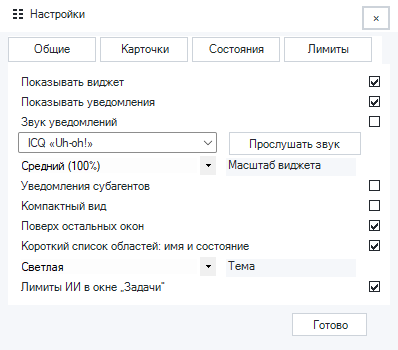
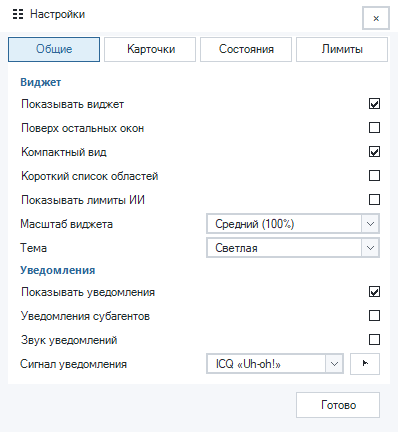
Align settings controls and group General options

diff --git a/native/DshNotifyGui.cs b/native/DshNotifyGui.cs
@@ -209,13 +209,17 @@ public sealed class SettingsForm : Form
     private static extern IntPtr SendMessage(IntPtr window, int message, IntPtr wParam, IntPtr lParam);
     private const int RowInset = 10;
     private const int RowHeight = 20;
+    private const int GeneralRowHeight = 24;
+    private const int GeneralValueLeft = 198;
+    private const int SettingsContentWidth = 382;
     private readonly Settings value;
     private readonly Action<Settings> changed;
     private readonly Dictionary<string, CheckBox> checks = new Dictionary<string, CheckBox>();
     private readonly Dictionary<Control, int> pages = new Dictionary<Control, int>();
-    private readonly ComboBox soundPreset = new ComboBox();
-    private readonly ComboBox widgetScale = new ComboBox();
-    private readonly ComboBox themeMode = new ComboBox();
+    private readonly ComboBox soundPreset = new SettingsChoice();
+    private readonly ComboBox widgetScale = new SettingsChoice();
+    private readonly ComboBox themeMode = new SettingsChoice();
+    private readonly List<Button> tabButtons = new List<Button>();
     private readonly Action<string> quotaKeyChanged;
     private readonly bool allowQuotaVault;
     private readonly Rectangle? layoutWorkingArea;
@@ -254,78 +258,42 @@ public sealed class SettingsForm : Form
         titleBar.MouseDown += DragCaption;
         Label title = new Label(); title.Text = "☷  Настройки"; title.ForeColor = Graphite.Primary; title.AutoSize = true; title.Location = new Point(10, 8); title.MouseDown += DragCaption;
         titleBar.Controls.Add(title); Controls.Add(titleBar);
-        Panel tabs = new Panel(); tabs.BackColor = Graphite.Base; tabs.SetBounds(8, 36, 374, 28); tabs.Anchor = AnchorStyles.Top | AnchorStyles.Left | AnchorStyles.Right;
+        Panel tabs = new Panel(); tabs.BackColor = Graphite.Base; tabs.SetBounds(8, 36, SettingsContentWidth, 28); tabs.Anchor = AnchorStyles.Top | AnchorStyles.Left | AnchorStyles.Right;
         string[] tabNames = new string[] { "Общие", "Карточки", "Состояния", "Лимиты" };
         for (int tabIndex = 0; tabIndex < tabNames.Length; tabIndex++)
         {
             Button tab = new Button(); int selected = tabIndex;
-            tab.Text = tabNames[tabIndex]; tab.AccessibleName = tabNames[tabIndex]; tab.SetBounds(tabIndex * 92, 1, 88, 25);
-            tab.FlatStyle = FlatStyle.Flat; tab.FlatAppearance.BorderColor = Graphite.Border; tab.BackColor = tabIndex == 0 ? Graphite.Card : Graphite.Base; tab.ForeColor = Graphite.Primary;
+            tab.Text = tabNames[tabIndex]; tab.AccessibleName = tabNames[tabIndex]; tab.SetBounds(tabIndex * 96, 1, 92, 25);
+            tab.FlatStyle = FlatStyle.Flat;
             tab.Click += delegate { ShowPage(selected); };
             tabs.Controls.Add(tab);
+            tabButtons.Add(tab);
         }
         Controls.Add(tabs);
         int top = 72;
         page = 0;
-        Add("show-widget", "Показывать виджет", value.ShowWidget, ref top);
-        Add("show-notices", "Показывать уведомления", value.ShowNotifications, ref top);
-        Add("notice-sound", "Звук уведомлений", value.NotificationSound, ref top);
-        soundPreset.Name = "notification-sound-preset";
-        soundPreset.AccessibleName = "Сигнал уведомления";
-        soundPreset.DropDownStyle = ComboBoxStyle.DropDownList;
-        soundPreset.FlatStyle = FlatStyle.Flat;
-        soundPreset.BackColor = Graphite.Card;
-        soundPreset.ForeColor = Graphite.Primary;
-        soundPreset.DrawMode = DrawMode.OwnerDrawFixed;
-        soundPreset.DrawItem += PaintSoundPreset;
+        AddCaption("Виджет", ref top);
+        Add("show-widget", "Показывать виджет", value.ShowWidget, ref top, GeneralRowHeight);
+        Add("widget-topmost", "Поверх остальных окон", value.WidgetTopMost, ref top, GeneralRowHeight);
+        Add("compact-widget", "Компактный вид", value.CompactWidget, ref top, GeneralRowHeight);
+        Add("compact-workspace-list", "Короткий список областей", value.CompactWorkspaceList, ref top, GeneralRowHeight);
+        Add("show-limits", "Показывать лимиты ИИ", value.ShowLimits, ref top, GeneralRowHeight);
+        widgetScale.Items.AddRange(new object[] { "Маленький (85%)", "Средний (100%)", "Большой (125%)" });
+        widgetScale.SelectedIndex = value.WidgetScale == "small" ? 0 : (value.WidgetScale == "large" ? 2 : 1);
+        AddGeneralChoice(widgetScale, "widget-scale", "Масштаб виджета", ref top);
+        themeMode.Items.AddRange(new object[] { "Как в Windows", "Светлая", "Тёмная" });
+        themeMode.SelectedIndex = ThemeIndex(value.Theme);
+        AddGeneralChoice(themeMode, "theme-mode", "Тема", ref top);
+        AddCaption("Уведомления", ref top);
+        Add("show-notices", "Показывать уведомления", value.ShowNotifications, ref top, GeneralRowHeight);
+        Add("subagent-notices", "Уведомления субагентов", value.SubagentNotices, ref top, GeneralRowHeight);
+        Add("notice-sound", "Звук уведомлений", value.NotificationSound, ref top, GeneralRowHeight);
         soundPreset.DisplayMember = "Value";
         soundPreset.Items.AddRange(NotificationSounds.Presets.Cast<object>().ToArray());
         soundPreset.SelectedIndex = NotificationSounds.IndexOf(value.NotificationSoundPreset);
-        soundPreset.SetBounds(RowInset, top, 199, 23);
-        soundPreset.SelectedIndexChanged += delegate { Save(); };
-        Controls.Add(soundPreset);
-        pages.Add(soundPreset, page);
-        Button preview = new Button { Text = "Прослушать звук", FlatStyle = FlatStyle.Flat, Enabled = previewSound != null,
-            ForeColor = Graphite.Primary, BackColor = Graphite.Card };
-        preview.FlatAppearance.BorderColor = Graphite.Border;
-        preview.SetBounds(221, top, 132, 23);
+        Button preview = new Button { Text = "▶", AccessibleName = "Прослушать звук", FlatStyle = FlatStyle.Flat, Enabled = previewSound != null };
         preview.Click += delegate { if (previewSound != null) previewSound(SelectedSound()); };
-        Controls.Add(preview);
-        pages.Add(preview, page);
-        top += 26;
-        widgetScale.Name = "widget-scale";
-        widgetScale.AccessibleName = "Масштаб виджета";
-        widgetScale.DropDownStyle = ComboBoxStyle.DropDownList;
-        widgetScale.FlatStyle = FlatStyle.Flat;
-        widgetScale.BackColor = Graphite.Card;
-        widgetScale.ForeColor = Graphite.Primary;
-        widgetScale.Items.AddRange(new object[] { "Маленький (85%)", "Средний (100%)", "Большой (125%)" });
-        widgetScale.SelectedIndex = value.WidgetScale == "small" ? 0 : (value.WidgetScale == "large" ? 2 : 1);
-        widgetScale.SetBounds(RowInset, top, 199, 23);
-        widgetScale.SelectedIndexChanged += delegate { Save(); };
-        Label scaleLabel = new Label { Text = "Масштаб виджета", ForeColor = Graphite.Secondary, BackColor = Graphite.Base };
-        scaleLabel.SetBounds(218, top + 3, 130, 18);
-        Controls.Add(scaleLabel); pages.Add(scaleLabel, page);
-        Controls.Add(widgetScale); pages.Add(widgetScale, page); top += 26;
-        Add("subagent-notices", "Уведомления субагентов", value.SubagentNotices, ref top);
-        Add("compact-widget", "Компактный вид", value.CompactWidget, ref top);
-        Add("widget-topmost", "Поверх остальных окон", value.WidgetTopMost, ref top);
-        Add("compact-workspace-list", "Короткий список областей: имя и состояние", value.CompactWorkspaceList, ref top);
-        themeMode.Name = "theme-mode";
-        themeMode.AccessibleName = "Тема";
-        themeMode.DropDownStyle = ComboBoxStyle.DropDownList;
-        themeMode.FlatStyle = FlatStyle.Flat;
-        themeMode.BackColor = Graphite.Card;
-        themeMode.ForeColor = Graphite.Primary;
-        themeMode.Items.AddRange(new object[] { "Как в Windows", "Светлая", "Тёмная" });
-        themeMode.SelectedIndex = ThemeIndex(value.Theme);
-        themeMode.SetBounds(RowInset, top, 199, 23);
-        themeMode.SelectedIndexChanged += delegate { Save(); };
-        Label themeLabel = new Label { Text = "Тема", ForeColor = Graphite.Secondary, BackColor = Graphite.Base };
-        themeLabel.SetBounds(218, top + 3, 130, 18);
-        Controls.Add(themeLabel); pages.Add(themeLabel, page);
-        Controls.Add(themeMode); pages.Add(themeMode, page); top += 26;
-        Add("show-limits", "Лимиты ИИ в окне „Задачи“", value.ShowLimits, ref top);
+        AddGeneralChoice(soundPreset, "notification-sound-preset", "Сигнал уведомления", ref top, preview);
         page = 1; top = 72;
         Add("field-workspace", "Рабочая область", value.FieldWorkspace, ref top);
         Add("field-task", "Задача", value.FieldTask, ref top);
@@ -359,8 +327,7 @@ public sealed class SettingsForm : Form
         }
         SaveButton = new Button();
         SaveButton.Text = "Готово";
-        SaveButton.Top = 290;
-        SaveButton.Left = 292;
+        SaveButton.SetBounds(296, 290, 84, 26);
         SaveButton.Anchor = AnchorStyles.Bottom | AnchorStyles.Right;
         SaveButton.FlatStyle = FlatStyle.Flat;
         SaveButton.BackColor = Graphite.Card;
@@ -384,7 +351,7 @@ public sealed class SettingsForm : Form
         MinimumSize = new Size(360, 280);
         AutoScroll = false;
         contentPanel = new Panel();
-        contentPanel.SetBounds(8, 64, 382, 218);
+        contentPanel.SetBounds(8, 64, SettingsContentWidth, 218);
         contentPanel.Anchor = AnchorStyles.Top | AnchorStyles.Bottom | AnchorStyles.Left | AnchorStyles.Right;
         contentPanel.AutoScroll = false;
         contentPanel.BackColor = Graphite.Card;
@@ -401,6 +368,7 @@ public sealed class SettingsForm : Form
         ShowPage(0);
         ResumeLayout(true);
         ApplyOwnPalette(this);
+        StyleTabs();
         CaptureScaleBaseline(this);
         ApplyWindowScale();
     }
@@ -472,6 +440,7 @@ public sealed class SettingsForm : Form
         checks["compact-widget"].Checked = value.CompactWidget;
         syncing = false;
         ApplyOwnPalette(this);
+        StyleTabs();
         ApplyWindowScale();
     }
 
@@ -480,7 +449,11 @@ public sealed class SettingsForm : Form
         Panel panel = control as Panel;
         if (panel != null) panel.BackColor = Graphite.Card;
         Label label = control as Label;
-        if (label != null) label.ForeColor = Graphite.Primary;
+        if (label != null)
+        {
+            label.BackColor = Graphite.Card;
+            label.ForeColor = label.Name == "settings-section" ? Graphite.Accent("running") : Graphite.Primary;
+        }
         Button button = control as Button;
         if (button != null) { button.BackColor = Graphite.Card; button.ForeColor = Graphite.Primary; button.FlatAppearance.BorderColor = Graphite.Border; }
         CheckBox check = control as CheckBox;
@@ -497,12 +470,36 @@ public sealed class SettingsForm : Form
         SendMessage(Handle, 0x00A1, new IntPtr(2), IntPtr.Zero);
     }
 
-    private void Add(string key, string text, bool selected, ref int top)
+    private void AddGeneralChoice(ComboBox combo, string name, string text, ref int top, Button action = null)
+    {
+        int right = SettingsContentWidth - RowInset;
+        int width = right - GeneralValueLeft;
+        Label label = new Label { Text = text, TextAlign = ContentAlignment.MiddleLeft, UseMnemonic = false };
+        label.SetBounds(RowInset, top, GeneralValueLeft - RowInset * 2, GeneralRowHeight);
+        combo.Name = name;
+        combo.AccessibleName = text;
+        combo.DropDownStyle = ComboBoxStyle.DropDownList;
+        combo.FlatStyle = FlatStyle.Flat;
+        combo.DrawMode = DrawMode.OwnerDrawFixed;
+        combo.DrawItem += PaintChoice;
+        combo.SetBounds(GeneralValueLeft, top + 1, action == null ? width : width - 36, GeneralRowHeight - 2);
+        combo.SelectedIndexChanged += delegate { Save(); };
+        Controls.Add(label); pages.Add(label, page);
+        Controls.Add(combo); pages.Add(combo, page);
+        if (action != null)
+        {
+            action.SetBounds(right - 30, top + 1, 30, GeneralRowHeight - 2);
+            Controls.Add(action); pages.Add(action, page);
+        }
+        top += GeneralRowHeight;
+    }
+
+    private void Add(string key, string text, bool selected, ref int top, int rowHeight = RowHeight)
     {
         CheckBox check = new CheckBox();
         check.Text = text;
         check.Checked = selected;
-        check.SetBounds(RowInset, top, 1, RowHeight);
+        check.SetBounds(RowInset, top, 1, rowHeight);
         check.TextAlign = ContentAlignment.MiddleLeft;
         check.CheckAlign = ContentAlignment.MiddleRight;
         check.FlatStyle = FlatStyle.Flat;
@@ -515,16 +512,18 @@ public sealed class SettingsForm : Form
         checks.Add(key, check);
         pages[check] = page;
         if (contentPanel == null) Controls.Add(check); else contentPanel.Controls.Add(check);
-        top += RowHeight;
+        top += rowHeight;
     }
 
     private void AddCaption(string text, ref int top)
     {
         Label caption = new Label();
+        caption.Name = "settings-section";
         caption.Text = text;
-        caption.ForeColor = Graphite.Running;
+        caption.TextAlign = ContentAlignment.MiddleLeft;
+        caption.ForeColor = Graphite.Accent("running");
         caption.Font = new Font("Segoe UI", 8.25F, FontStyle.Bold);
-        caption.Left = 10;
+        caption.Left = RowInset;
         caption.Top = top;
         caption.Width = 280;
         caption.Height = 20;
@@ -664,7 +663,8 @@ public sealed class SettingsForm : Form
     private void FitRows()
     {
         int inset = (int)Math.Round(RowInset * WindowScaleFactor());
-        int width = Math.Max(1, contentPanel.ClientSize.Width - inset * 2);
+        int right = (int)Math.Round((SettingsContentWidth - RowInset) * WindowScaleFactor());
+        int width = Math.Max(1, Math.Min(right, contentPanel.ClientSize.Width - inset) - inset);
         foreach (CheckBox row in checks.Values) row.Width = width;
     }
 
@@ -672,8 +672,21 @@ public sealed class SettingsForm : Form
     {
         if (page != selected) limitProviderPage = 0;
         page = selected;
+        StyleTabs();
         foreach (KeyValuePair<Control, int> item in pages) item.Key.Visible = item.Value == selected;
         FitToVisibleContent();
+    }
+
+    private void StyleTabs()
+    {
+        for (int index = 0; index < tabButtons.Count; index++)
+        {
+            bool selected = index == page;
+            Button tab = tabButtons[index];
+            tab.BackColor = selected ? Graphite.ChipFill("running") : Graphite.Card;
+            tab.ForeColor = selected ? Graphite.Accent("running") : Graphite.Primary;
+            tab.FlatAppearance.BorderColor = selected ? Graphite.Accent("running") : Graphite.Border;
+        }
     }
 
     private void Save()
@@ -739,8 +752,10 @@ public sealed class SettingsForm : Form
 
     private static Rectangle ScaleRectangle(Rectangle rectangle, float factor)
     {
-        return new Rectangle((int)Math.Round(rectangle.X * factor), (int)Math.Round(rectangle.Y * factor),
-            Math.Max(1, (int)Math.Round(rectangle.Width * factor)), Math.Max(1, (int)Math.Round(rectangle.Height * factor)));
+        int left = (int)Math.Round(rectangle.Left * factor);
+        int top = (int)Math.Round(rectangle.Top * factor);
+        return new Rectangle(left, top, Math.Max(1, (int)Math.Round(rectangle.Right * factor) - left),
+            Math.Max(1, (int)Math.Round(rectangle.Bottom * factor) - top));
     }
 
     private void ApplyWindowScale()
@@ -791,15 +806,54 @@ public sealed class SettingsForm : Form
         return soundPreset.SelectedIndex < 0 ? NotificationSounds.DefaultId : NotificationSounds.Presets[soundPreset.SelectedIndex].Key;
     }
 
-    private void PaintSoundPreset(object sender, DrawItemEventArgs args)
+    private void PaintChoice(object sender, DrawItemEventArgs args)
     {
         bool highlighted = (args.State & (DrawItemState.Selected | DrawItemState.ComboBoxEdit)) == DrawItemState.Selected;
         using (Brush fill = new SolidBrush(highlighted ? Graphite.Border : Graphite.Card))
             args.Graphics.FillRectangle(fill, args.Bounds);
         if (args.Index < 0) return;
         Rectangle text = Rectangle.Inflate(args.Bounds, -4, 0);
-        TextRenderer.DrawText(args.Graphics, NotificationSounds.Presets[args.Index].Value, args.Font, text,
+        ComboBox combo = (ComboBox)sender;
+        TextRenderer.DrawText(args.Graphics, combo.GetItemText(combo.Items[args.Index]), args.Font, text,
             Graphite.Primary, TextFormatFlags.NoPrefix | TextFormatFlags.EndEllipsis | TextFormatFlags.VerticalCenter);
+    }
+
+    private sealed class SettingsChoice : ComboBox
+    {
+        protected override void WndProc(ref Message message)
+        {
+            base.WndProc(ref message);
+            const int PaintMessage = 0x000F;
+            const int PrintMessage = 0x0317;
+            const int PrintClientMessage = 0x0318;
+            if (message.Msg == PaintMessage && IsHandleCreated)
+            {
+                using (Graphics graphics = Graphics.FromHwnd(Handle)) PaintFrame(graphics);
+            }
+            else if ((message.Msg == PrintMessage || message.Msg == PrintClientMessage) && message.WParam != IntPtr.Zero)
+            {
+                using (Graphics graphics = Graphics.FromHdc(message.WParam)) PaintFrame(graphics);
+            }
+        }
+
+        private void PaintFrame(Graphics graphics)
+        {
+            Rectangle area = ClientRectangle;
+            if (area.Width < 4 || area.Height < 4) return;
+            int arrowWidth = Math.Min(area.Width - 3, SystemInformation.VerticalScrollBarWidth);
+            var arrow = new Rectangle(area.Right - arrowWidth - 1, 1, arrowWidth, area.Height - 2);
+            using (Brush fill = new SolidBrush(Graphite.Base)) graphics.FillRectangle(fill, arrow);
+            int x = arrow.Left + arrow.Width / 2;
+            int y = arrow.Top + arrow.Height / 2;
+            using (Pen mark = new Pen(Graphite.Secondary))
+                graphics.DrawLines(mark, new Point[] { new Point(x - 3, y - 1), new Point(x, y + 2), new Point(x + 3, y - 1) });
+            using (Pen border = new Pen(Focused ? Graphite.Accent("running") : Graphite.Border))
+            {
+                graphics.DrawRectangle(border, 0, 0, area.Width - 1, area.Height - 1);
+                graphics.DrawRectangle(border, 1, 1, area.Width - 3, area.Height - 3);
+                graphics.DrawLine(border, arrow.Left - 1, 1, arrow.Left - 1, area.Height - 2);
+            }
+        }
     }
 }
 

diff --git a/README.md b/README.md
@@ -46,7 +46,7 @@
 | --- | --- | --- |
 | ![Мелкий виджет с вымышленными задачами](docs/screenshots/widget-small-light.png) | ![Средний виджет с вымышленными задачами](docs/screenshots/widget-medium-light.png) | ![Крупный виджет с вымышленными задачами](docs/screenshots/widget-large-light.png) |
 
-[Мелкая сводка](docs/screenshots/widget-summary-small-dark.png) · [Средняя сводка](docs/screenshots/widget-summary-dark.png) · [Крупная сводка](docs/screenshots/widget-summary-large-dark.png) · [Настройки масштаба](docs/screenshots/settings-size-light.png)
+[Мелкая сводка](docs/screenshots/widget-summary-small-dark.png) · [Средняя сводка](docs/screenshots/widget-summary-dark.png) · [Крупная сводка](docs/screenshots/widget-summary-large-dark.png) · [Настройки в светлой теме](docs/screenshots/settings-size-light.png) · [Настройки в тёмной теме](docs/screenshots/settings-general-dark.png)
 
 ## Лимиты ИИ
 
